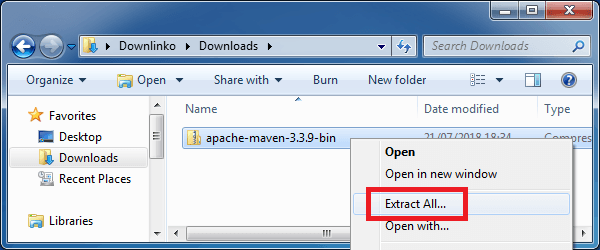
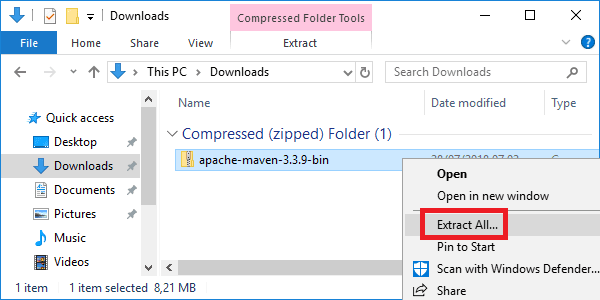
update post

diff --git a/_posts/development/2018-07-22-download-install-maven-3-3-9-windows.md b/_posts/development/2018-07-22-download-install-maven-3-3-9-windows.md
@@ -75,7 +75,7 @@ Open the location of the downloaded installer.
 
 <img src="{{ site.url }}/assets/images/posts/development/maven/maven-3-3-9-downloaded-binary.png" alt="maven 3-3-9 downloaded binary">
 
-Right-click the ZIP archive file. Select `Extract All...`.
+Right-click the ZIP archive file. Select `Extract All…`.
 
 <img src="{{ site.url }}/assets/images/posts/development/maven/maven-3-3-9-downloaded-binary-extract-all.png" alt="maven 3-3-9 downloaded binary extract all">
 
@@ -83,7 +83,7 @@ Select an extract destination for the Maven files.
 
 In this example, we extract in `C:\Users\Downlinko\tools`.
 
-<img src="{{ site.url }}/assets/images/posts/development/tools-extract-destination.jpg" alt="tools-extract-destination">
+<img src="{{ site.url }}/assets/images/posts/development/tools-extract-destination.png" alt="tools-extract-destination">
 
 Click on `Extract`. This extracts all Maven files under `C:\Users\Downlinko\tools\apache-maven-3.3.9`.
 
@@ -95,15 +95,19 @@ Click on `Extract`. This extracts all Maven files under `C:\Users\Downlinko\tool
 
 We need to set up an environment variable that will point to our Maven installation.
 
-Click on the Windows button. Then type "<kbd>env</kbd>" in the search box and press `ENTER`.
+Click on the search button. Then type "<kbd>env</kbd>".
+
+> On Windows 7 click on the Windows button.
+
+Click on the `Edit environment variables for your account` shortcut.
 
 <img src="{{ site.url }}/assets/images/posts/development/windows-search-env.png" alt="windows search env">
 
-Click on the `Edit environment variables for your account` shortcut. Wait for the environment variables window to open.
+Wait for the environment variables window to open.
 
 <img src="{{ site.url }}/assets/images/posts/development/windows-account-environment-variables-jdk.png" alt="windows account environment variables jdk">
 
-Click on `New...`.
+Click on `New…`.
 
 <img src="{{ site.url }}/assets/images/posts/development/windows-account-environment-variables-jdk-new.png" alt="windows account environment variables jdk new">
 
